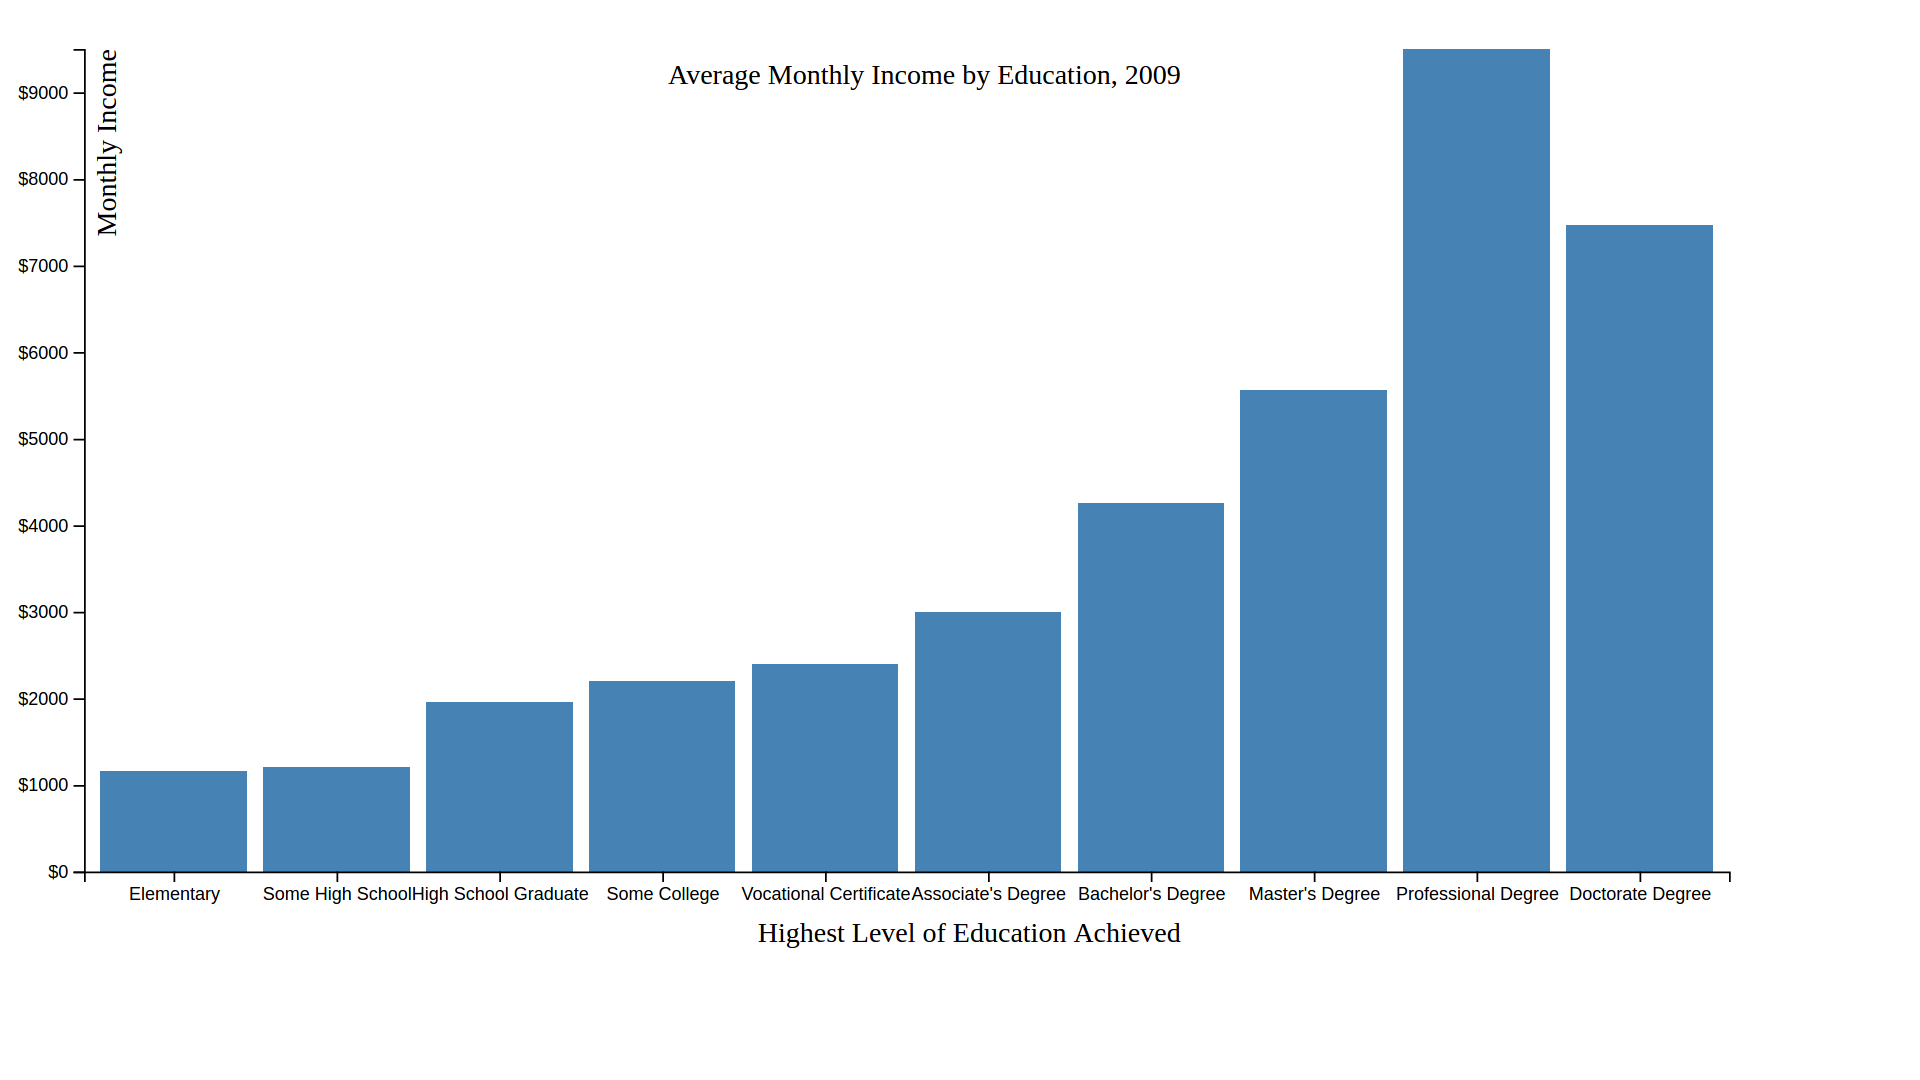
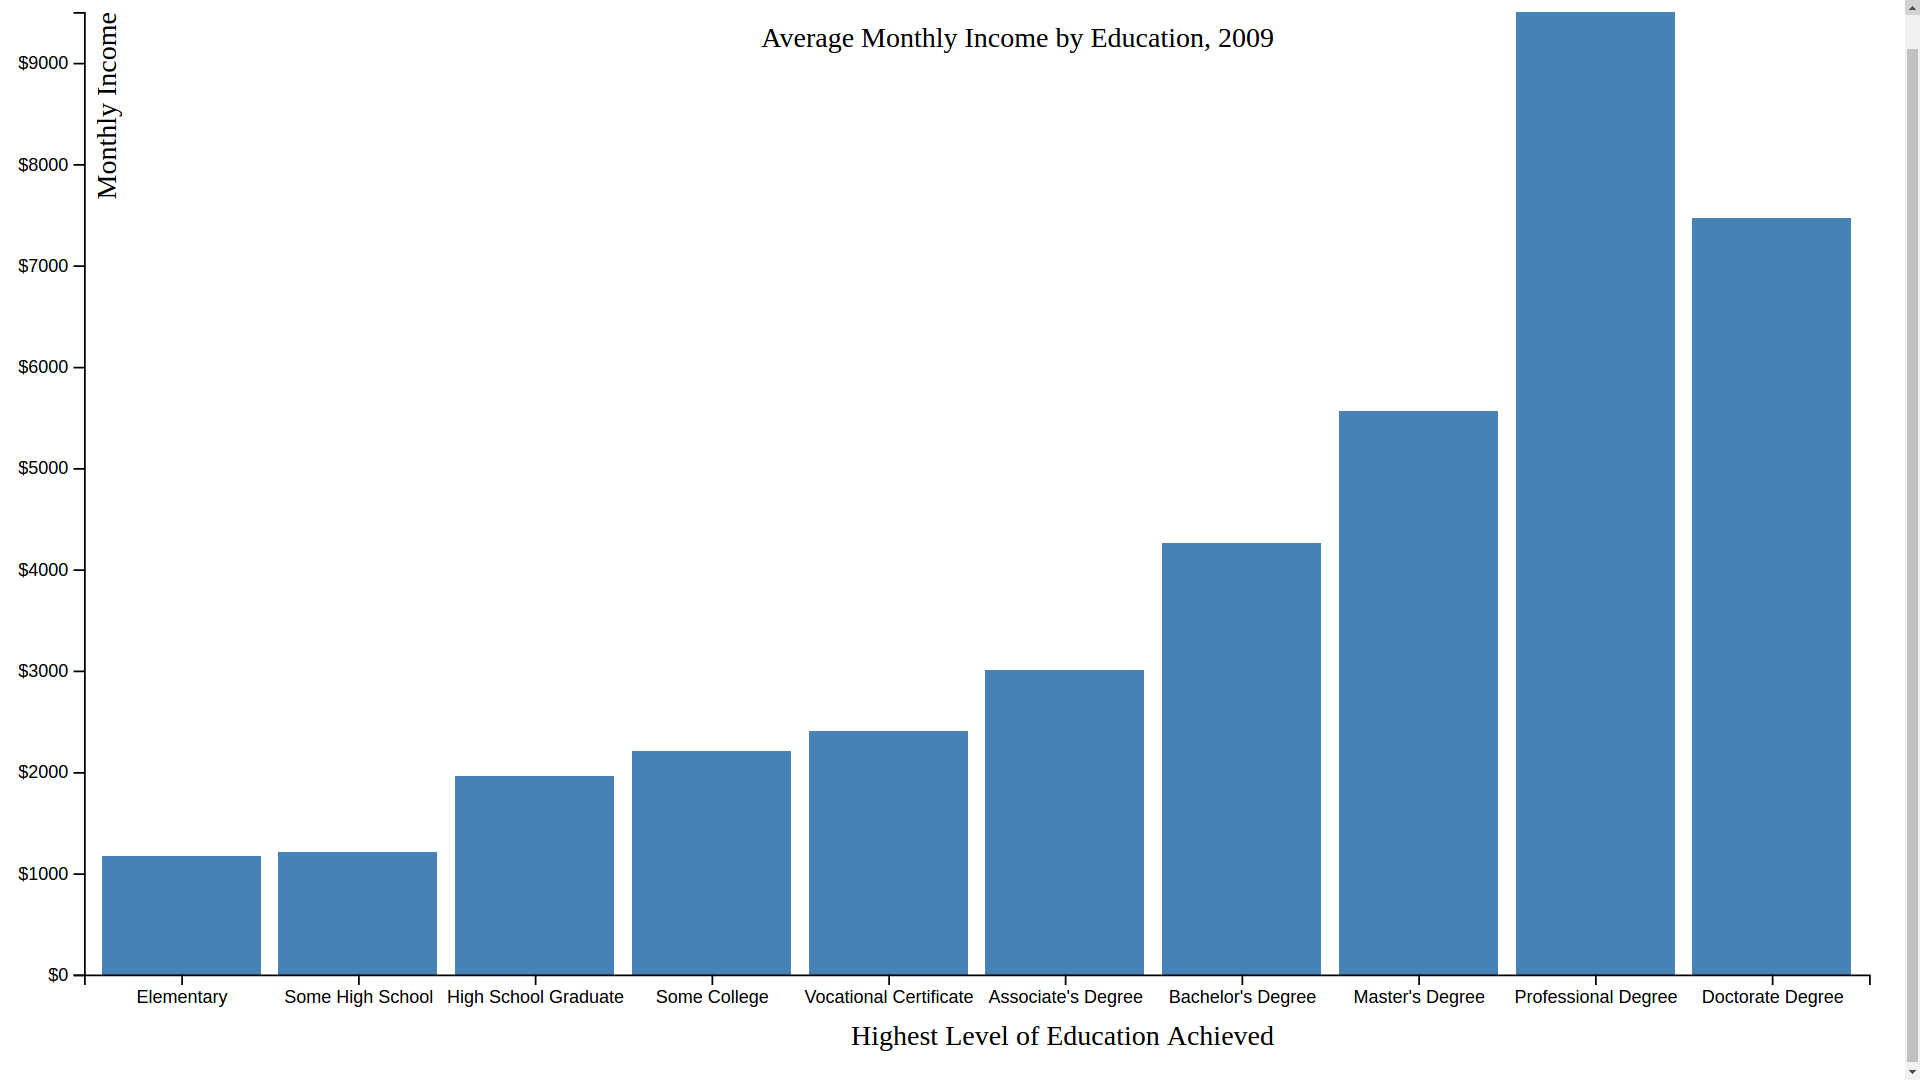
Touched up write-up. Wrote references.

diff --git a/submission/chart 2a: education vs average income/index.html b/submission/chart 2a: education vs average income/index.html
@@ -19,8 +19,8 @@
 
 			//Set the dimensions and margins of the graph
 			var margin = {top: 20, right: 20, bottom: 50, left: 40},
-			    width = 1000 - margin.left - margin.right,
-			    height = 540 - margin.top - margin.bottom;
+			    width = 1080 - margin.left - margin.right,
+			    height = 620 - margin.top - margin.bottom;
 
 			//Create scale functions
 			var xScale = d3.scaleBand()

diff --git a/submission/chart 2j: education vs median income/index.html b/submission/chart 2j: education vs median income/index.html
@@ -19,8 +19,8 @@
 
 			//Set the dimensions and margins of the graph
 			var margin = {top: 20, right: 20, bottom: 50, left: 40},
-			    width = 1000 - margin.left - margin.right,
-			    height = 540 - margin.top - margin.bottom;
+			    width = 1080 - margin.left - margin.right,
+			    height = 620 - margin.top - margin.bottom;
 
 			//Create scale functions
 			var xScale = d3.scaleBand()

diff --git a/submission/chart 2a and 2j: correlation between average and median income/table_2a_2j_stats.py b/submission/chart 2a and 2j: correlation between average and median income/table_2a_2j_stats.py
@@ -1,0 +1,31 @@
+import csv
+import numpy as np
+
+# Import census data from CSV
+with open('table2a_2j_correlations_python_improved.csv', 'r') as f:
+	my_reader = csv.reader(f)
+	data = list(my_reader)
+
+# Find mean
+
+mean = 0
+
+for j in range(0, 2):
+	for i in range(0, len(data)):
+		mean = mean + int(data[i][j])
+
+mean = mean / (len(data) * 2)
+
+print ('Mean: ' + repr(mean))
+
+# Find standard deviation
+
+stdData = []
+
+for j in range(0, 2):
+	for i in range (0, len(data)):
+		stdData.append(data[i][j])
+
+stdData = list(map(int, stdData))
+stdDev = round(np.std(stdData), 3)
+print ('Standard deviation: ' + repr(stdDev))
